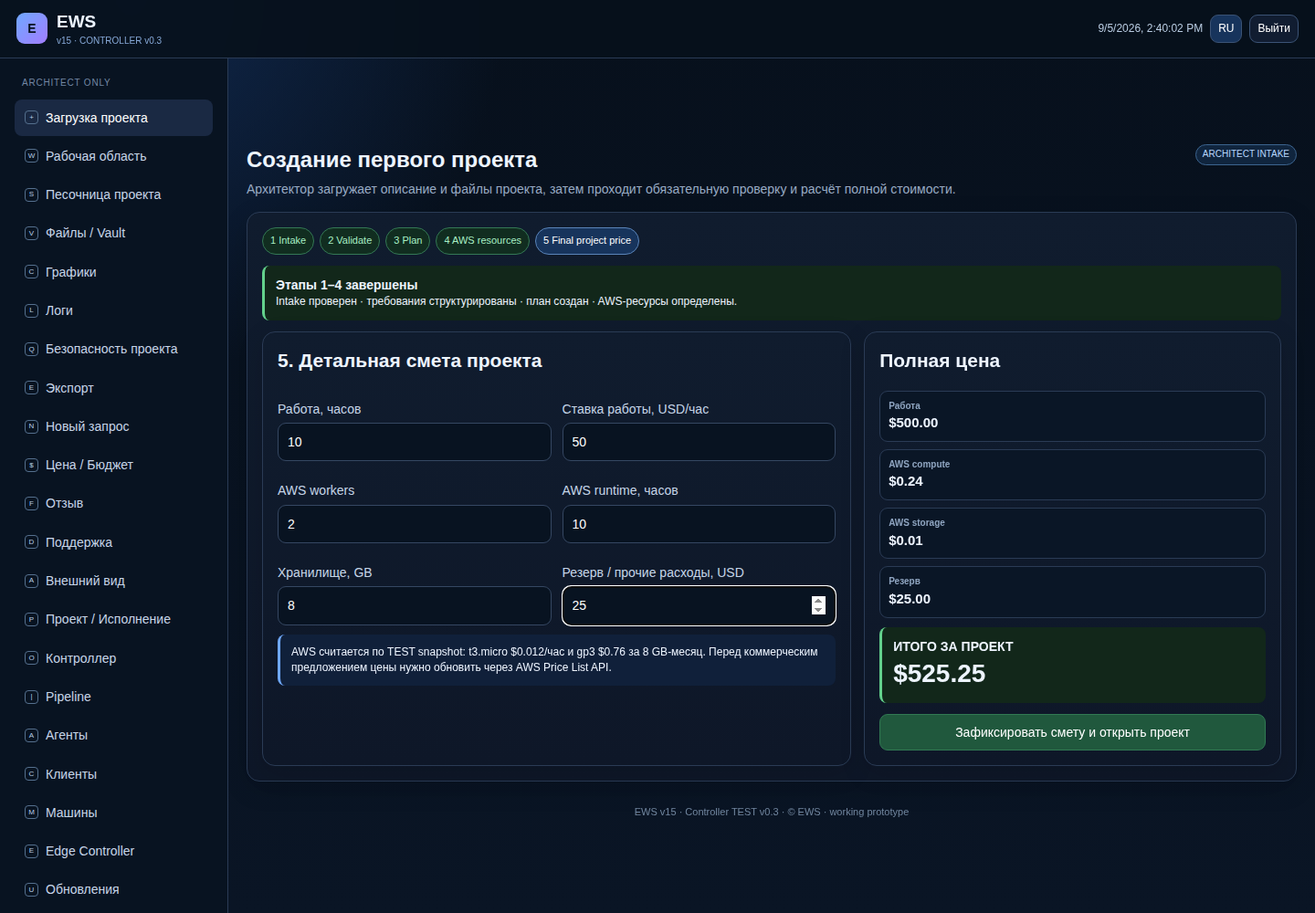
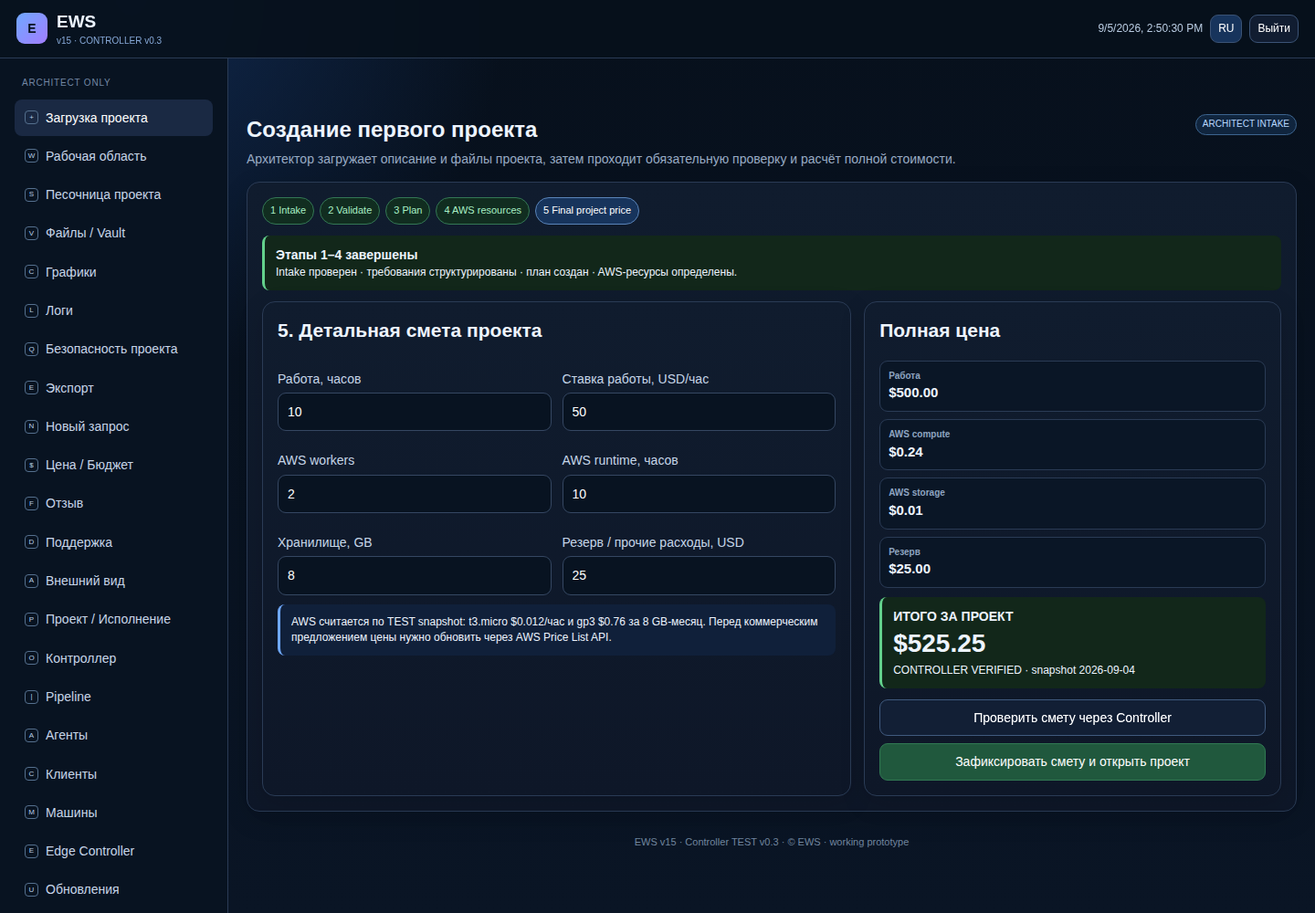
Connect architect pricing to controller

diff --git a/EWS_PROJECT_SOURCE_CURRENT.html b/EWS_PROJECT_SOURCE_CURRENT.html
@@ -75,7 +75,7 @@ table{width:100%;border-collapse:collapse}th,td{padding:9px 8px;border-bottom:1p
      <div class="safe"><b>Этапы 1–4 завершены</b><div class="tiny">Intake проверен · требования структурированы · план создан · AWS-ресурсы определены.</div></div>
      <div class="grid" style="margin-top:12px">
       <div class="card c7"><h2 style="margin-top:0">5. Детальная смета проекта</h2><div class="two"><label>Работа, часов<input id="priceHours" class="field" type="number" min="0" step="0.25" value="40" oninput="calculateProjectPrice()"></label><label>Ставка работы, USD/час<input id="priceRate" class="field" type="number" min="0" step="1" value="45" oninput="calculateProjectPrice()"></label><label>AWS workers<input id="priceWorkers" class="field" type="number" min="1" max="100" step="1" value="4" oninput="calculateProjectPrice()"></label><label>AWS runtime, часов<input id="priceAwsHours" class="field" type="number" min="0" step="0.25" value="12" oninput="calculateProjectPrice()"></label><label>Хранилище, GB<input id="priceStorage" class="field" type="number" min="0" step="1" value="20" oninput="calculateProjectPrice()"></label><label>Резерв / прочие расходы, USD<input id="priceReserve" class="field" type="number" min="0" step="1" value="100" oninput="calculateProjectPrice()"></label></div><div class="notice tiny" style="margin-top:10px">AWS считается по TEST snapshot: t3.micro $0.012/час и gp3 $0.76 за 8 GB-месяц. Перед коммерческим предложением цены нужно обновить через AWS Price List API.</div></div>
-      <div class="card c5"><h2 style="margin-top:0">Полная цена</h2><div class="kv"><b>Работа</b><span id="priceLabor">$0.00</span></div><div class="kv" style="margin-top:8px"><b>AWS compute</b><span id="priceCompute">$0.00</span></div><div class="kv" style="margin-top:8px"><b>AWS storage</b><span id="priceStorageTotal">$0.00</span></div><div class="kv" style="margin-top:8px"><b>Резерв</b><span id="priceReserveTotal">$0.00</span></div><div class="safe" style="margin-top:10px"><b>ИТОГО ЗА ПРОЕКТ</b><div id="priceGrandTotal" class="metric">$0.00</div></div><button class="btn good" style="width:100%;margin-top:12px" onclick="confirmFirstProject()">Зафиксировать смету и открыть проект</button></div>
+      <div class="card c5"><h2 style="margin-top:0">Полная цена</h2><div class="kv"><b>Работа</b><span id="priceLabor">$0.00</span></div><div class="kv" style="margin-top:8px"><b>AWS compute</b><span id="priceCompute">$0.00</span></div><div class="kv" style="margin-top:8px"><b>AWS storage</b><span id="priceStorageTotal">$0.00</span></div><div class="kv" style="margin-top:8px"><b>Резерв</b><span id="priceReserveTotal">$0.00</span></div><div class="safe" style="margin-top:10px"><b>ИТОГО ЗА ПРОЕКТ</b><div id="priceGrandTotal" class="metric">$0.00</div><div id="priceSource" class="tiny">LOCAL TEST SNAPSHOT</div></div><button class="btn alt" style="width:100%;margin-top:12px" onclick="calculateProjectPriceFromController()">Проверить смету через Controller</button><button class="btn good" style="width:100%;margin-top:8px" onclick="confirmFirstProject()">Зафиксировать смету и открыть проект</button></div>
      </div>
     </div>
    </div>
@@ -284,7 +284,10 @@ function toggleVoice(){recording=!recording;document.getElementById('voiceBtn').
 function stageFiles(files){document.getElementById('stagedFiles').textContent=files.length?[...files].map(f=>f.name).join(' · '):'No files staged.'}
 function showAgreement(){modal('Agreement / NDA','<div class="code">DEMO CONFIDENTIAL PROJECT AGREEMENT\n\nConfidentiality · permitted processing · sandbox execution · storage/retention · client responsibility · project privacy · recovery · acceptable-use restrictions.\n\nProduction legal text replaces this placeholder.</div>')}
 function money(n){return '$'+(Number.isFinite(n)?n:0).toFixed(2)}
-function calculateProjectPrice(){const value=id=>Math.max(0,Number(document.getElementById(id)?.value||0));const hours=value('priceHours'),rate=value('priceRate'),workers=value('priceWorkers'),awsHours=value('priceAwsHours'),storage=value('priceStorage'),reserve=value('priceReserve');const labor=hours*rate,compute=workers*awsHours*.012,storageCost=storage*.76/8*(awsHours/730),total=labor+compute+storageCost+reserve;document.getElementById('priceLabor').textContent=money(labor);document.getElementById('priceCompute').textContent=money(compute);document.getElementById('priceStorageTotal').textContent=money(storageCost);document.getElementById('priceReserveTotal').textContent=money(reserve);document.getElementById('priceGrandTotal').textContent=money(total);return total}
+function priceInputs(){const value=id=>Math.max(0,Number(document.getElementById(id)?.value||0));return {labor_hours:value('priceHours'),labor_rate_usd:value('priceRate'),aws_workers:value('priceWorkers'),aws_runtime_hours:value('priceAwsHours'),storage_gb:value('priceStorage'),reserve_usd:value('priceReserve')}}
+function showPrice(b,total,source){document.getElementById('priceLabor').textContent=money(b.labor_usd);document.getElementById('priceCompute').textContent=money(b.aws_compute_usd);document.getElementById('priceStorageTotal').textContent=money(b.aws_storage_usd);document.getElementById('priceReserveTotal').textContent=money(b.reserve_usd);document.getElementById('priceGrandTotal').textContent=money(total);document.getElementById('priceSource').textContent=source}
+function calculateProjectPrice(){const p=priceInputs(),labor=p.labor_hours*p.labor_rate_usd,compute=p.aws_workers*p.aws_runtime_hours*.012,storage=p.storage_gb*.76/8*(p.aws_runtime_hours/730),total=labor+compute+storage+p.reserve_usd;showPrice({labor_usd:labor,aws_compute_usd:compute,aws_storage_usd:storage,reserve_usd:p.reserve_usd},total,'LOCAL TEST SNAPSHOT · NOT VERIFIED');return total}
+async function calculateProjectPriceFromController(){const cfg=controllerCfg();if(!cfg.url){calculateProjectPrice();simpleModal('Controller pricing','Controller API не настроен. Показан локальный TEST-расчёт; это не финальный счёт AWS.');return}try{const d=await controllerRequest('/pricing/estimate','POST',priceInputs());const e=d.estimate||{},b=e.breakdown||{};showPrice(b,Number(e.total_usd||0),'CONTROLLER VERIFIED · snapshot '+(e.pricing_snapshot_date||'unknown'));controllerLog('pricing estimate verified · $'+Number(e.total_usd||0).toFixed(2))}catch(e){document.getElementById('priceSource').textContent='CONTROLLER ERROR';simpleModal('Controller pricing','Расчёт не подтверждён: '+e.message)}}
 function validateIntake(){if(!['att1','att2','att3','nda'].every(id=>document.getElementById(id).checked)){simpleModal('Required confirmation','Please accept all intake confirmations and Agreement / NDA before continuing.');return}document.getElementById('intakeStep1').classList.add('hidden');document.getElementById('intakeStep2').classList.remove('hidden');['w1','w2','w3','w4'].forEach(id=>document.getElementById(id).className='wiz done');document.getElementById('w5').className='wiz active';calculateProjectPrice()}
 function confirmFirstProject(){setHasProject(true);document.getElementById('w5').className='wiz done';const total=calculateProjectPrice();modal('Смета проекта зафиксирована','<p>Все пять этапов завершены. Полная расчётная цена: <b>'+money(total)+'</b>.</p><div class="code">status: PRICE_APPROVED\nAWS: included\nnext route: ARCHITECT_WORKSPACE</div><button class="btn good" onclick="closeModal();showSection(\'architectWorkspace\')">Открыть рабочую область</button>')}
 function renderStages(){const c=document.getElementById('workspaceStages'),a=document.getElementById('architectStages');if(!c||!a)return;c.innerHTML='';a.innerHTML='';const names=lang==='ru'?stageRU:stageEN;names.forEach((n,i)=>{const status=i<17?'good':i===17?'blue':'';const label=i<17?'DONE':i===17?'ACTIVE':'WAIT';const make=()=>{const d=document.createElement('div');d.className='stage';d.onclick=()=>stageModal(i,n);d.innerHTML='<div class="stage-num">'+(i+1)+'</div><div><b>'+n+'</b><div class="tiny muted">'+(i<17?'completed':i===17?'working':'queued')+'</div></div><span class="badge '+status+'">'+label+'</span>';return d};if(i<8)c.appendChild(make());a.appendChild(make())})}

diff --git a/index.html b/index.html
@@ -75,7 +75,7 @@ table{width:100%;border-collapse:collapse}th,td{padding:9px 8px;border-bottom:1p
      <div class="safe"><b>Этапы 1–4 завершены</b><div class="tiny">Intake проверен · требования структурированы · план создан · AWS-ресурсы определены.</div></div>
      <div class="grid" style="margin-top:12px">
       <div class="card c7"><h2 style="margin-top:0">5. Детальная смета проекта</h2><div class="two"><label>Работа, часов<input id="priceHours" class="field" type="number" min="0" step="0.25" value="40" oninput="calculateProjectPrice()"></label><label>Ставка работы, USD/час<input id="priceRate" class="field" type="number" min="0" step="1" value="45" oninput="calculateProjectPrice()"></label><label>AWS workers<input id="priceWorkers" class="field" type="number" min="1" max="100" step="1" value="4" oninput="calculateProjectPrice()"></label><label>AWS runtime, часов<input id="priceAwsHours" class="field" type="number" min="0" step="0.25" value="12" oninput="calculateProjectPrice()"></label><label>Хранилище, GB<input id="priceStorage" class="field" type="number" min="0" step="1" value="20" oninput="calculateProjectPrice()"></label><label>Резерв / прочие расходы, USD<input id="priceReserve" class="field" type="number" min="0" step="1" value="100" oninput="calculateProjectPrice()"></label></div><div class="notice tiny" style="margin-top:10px">AWS считается по TEST snapshot: t3.micro $0.012/час и gp3 $0.76 за 8 GB-месяц. Перед коммерческим предложением цены нужно обновить через AWS Price List API.</div></div>
-      <div class="card c5"><h2 style="margin-top:0">Полная цена</h2><div class="kv"><b>Работа</b><span id="priceLabor">$0.00</span></div><div class="kv" style="margin-top:8px"><b>AWS compute</b><span id="priceCompute">$0.00</span></div><div class="kv" style="margin-top:8px"><b>AWS storage</b><span id="priceStorageTotal">$0.00</span></div><div class="kv" style="margin-top:8px"><b>Резерв</b><span id="priceReserveTotal">$0.00</span></div><div class="safe" style="margin-top:10px"><b>ИТОГО ЗА ПРОЕКТ</b><div id="priceGrandTotal" class="metric">$0.00</div></div><button class="btn good" style="width:100%;margin-top:12px" onclick="confirmFirstProject()">Зафиксировать смету и открыть проект</button></div>
+      <div class="card c5"><h2 style="margin-top:0">Полная цена</h2><div class="kv"><b>Работа</b><span id="priceLabor">$0.00</span></div><div class="kv" style="margin-top:8px"><b>AWS compute</b><span id="priceCompute">$0.00</span></div><div class="kv" style="margin-top:8px"><b>AWS storage</b><span id="priceStorageTotal">$0.00</span></div><div class="kv" style="margin-top:8px"><b>Резерв</b><span id="priceReserveTotal">$0.00</span></div><div class="safe" style="margin-top:10px"><b>ИТОГО ЗА ПРОЕКТ</b><div id="priceGrandTotal" class="metric">$0.00</div><div id="priceSource" class="tiny">LOCAL TEST SNAPSHOT</div></div><button class="btn alt" style="width:100%;margin-top:12px" onclick="calculateProjectPriceFromController()">Проверить смету через Controller</button><button class="btn good" style="width:100%;margin-top:8px" onclick="confirmFirstProject()">Зафиксировать смету и открыть проект</button></div>
      </div>
     </div>
    </div>
@@ -284,7 +284,10 @@ function toggleVoice(){recording=!recording;document.getElementById('voiceBtn').
 function stageFiles(files){document.getElementById('stagedFiles').textContent=files.length?[...files].map(f=>f.name).join(' · '):'No files staged.'}
 function showAgreement(){modal('Agreement / NDA','<div class="code">DEMO CONFIDENTIAL PROJECT AGREEMENT\n\nConfidentiality · permitted processing · sandbox execution · storage/retention · client responsibility · project privacy · recovery · acceptable-use restrictions.\n\nProduction legal text replaces this placeholder.</div>')}
 function money(n){return '$'+(Number.isFinite(n)?n:0).toFixed(2)}
-function calculateProjectPrice(){const value=id=>Math.max(0,Number(document.getElementById(id)?.value||0));const hours=value('priceHours'),rate=value('priceRate'),workers=value('priceWorkers'),awsHours=value('priceAwsHours'),storage=value('priceStorage'),reserve=value('priceReserve');const labor=hours*rate,compute=workers*awsHours*.012,storageCost=storage*.76/8*(awsHours/730),total=labor+compute+storageCost+reserve;document.getElementById('priceLabor').textContent=money(labor);document.getElementById('priceCompute').textContent=money(compute);document.getElementById('priceStorageTotal').textContent=money(storageCost);document.getElementById('priceReserveTotal').textContent=money(reserve);document.getElementById('priceGrandTotal').textContent=money(total);return total}
+function priceInputs(){const value=id=>Math.max(0,Number(document.getElementById(id)?.value||0));return {labor_hours:value('priceHours'),labor_rate_usd:value('priceRate'),aws_workers:value('priceWorkers'),aws_runtime_hours:value('priceAwsHours'),storage_gb:value('priceStorage'),reserve_usd:value('priceReserve')}}
+function showPrice(b,total,source){document.getElementById('priceLabor').textContent=money(b.labor_usd);document.getElementById('priceCompute').textContent=money(b.aws_compute_usd);document.getElementById('priceStorageTotal').textContent=money(b.aws_storage_usd);document.getElementById('priceReserveTotal').textContent=money(b.reserve_usd);document.getElementById('priceGrandTotal').textContent=money(total);document.getElementById('priceSource').textContent=source}
+function calculateProjectPrice(){const p=priceInputs(),labor=p.labor_hours*p.labor_rate_usd,compute=p.aws_workers*p.aws_runtime_hours*.012,storage=p.storage_gb*.76/8*(p.aws_runtime_hours/730),total=labor+compute+storage+p.reserve_usd;showPrice({labor_usd:labor,aws_compute_usd:compute,aws_storage_usd:storage,reserve_usd:p.reserve_usd},total,'LOCAL TEST SNAPSHOT · NOT VERIFIED');return total}
+async function calculateProjectPriceFromController(){const cfg=controllerCfg();if(!cfg.url){calculateProjectPrice();simpleModal('Controller pricing','Controller API не настроен. Показан локальный TEST-расчёт; это не финальный счёт AWS.');return}try{const d=await controllerRequest('/pricing/estimate','POST',priceInputs());const e=d.estimate||{},b=e.breakdown||{};showPrice(b,Number(e.total_usd||0),'CONTROLLER VERIFIED · snapshot '+(e.pricing_snapshot_date||'unknown'));controllerLog('pricing estimate verified · $'+Number(e.total_usd||0).toFixed(2))}catch(e){document.getElementById('priceSource').textContent='CONTROLLER ERROR';simpleModal('Controller pricing','Расчёт не подтверждён: '+e.message)}}
 function validateIntake(){if(!['att1','att2','att3','nda'].every(id=>document.getElementById(id).checked)){simpleModal('Required confirmation','Please accept all intake confirmations and Agreement / NDA before continuing.');return}document.getElementById('intakeStep1').classList.add('hidden');document.getElementById('intakeStep2').classList.remove('hidden');['w1','w2','w3','w4'].forEach(id=>document.getElementById(id).className='wiz done');document.getElementById('w5').className='wiz active';calculateProjectPrice()}
 function confirmFirstProject(){setHasProject(true);document.getElementById('w5').className='wiz done';const total=calculateProjectPrice();modal('Смета проекта зафиксирована','<p>Все пять этапов завершены. Полная расчётная цена: <b>'+money(total)+'</b>.</p><div class="code">status: PRICE_APPROVED\nAWS: included\nnext route: ARCHITECT_WORKSPACE</div><button class="btn good" onclick="closeModal();showSection(\'architectWorkspace\')">Открыть рабочую область</button>')}
 function renderStages(){const c=document.getElementById('workspaceStages'),a=document.getElementById('architectStages');if(!c||!a)return;c.innerHTML='';a.innerHTML='';const names=lang==='ru'?stageRU:stageEN;names.forEach((n,i)=>{const status=i<17?'good':i===17?'blue':'';const label=i<17?'DONE':i===17?'ACTIVE':'WAIT';const make=()=>{const d=document.createElement('div');d.className='stage';d.onclick=()=>stageModal(i,n);d.innerHTML='<div class="stage-num">'+(i+1)+'</div><div><b>'+n+'</b><div class="tiny muted">'+(i<17?'completed':i===17?'working':'queued')+'</div></div><span class="badge '+status+'">'+label+'</span>';return d};if(i<8)c.appendChild(make());a.appendChild(make())})}

diff --git a/controller_app.py b/controller_app.py
@@ -180,6 +180,58 @@ def stack_status(stack_name: str) -> Dict[str, Any]:
     return {"stack_status": s.get("StackStatus"), "worker_instance_id": outputs.get("WorkerInstanceId")}
 
 
+def project_price_estimate(body: Dict[str, Any]) -> Dict[str, Any]:
+    limits = {
+        "labor_hours": 100000.0,
+        "labor_rate_usd": 10000.0,
+        "aws_runtime_hours": 8760.0,
+        "storage_gb": 100000.0,
+        "reserve_usd": 10000000.0,
+    }
+    values: Dict[str, float] = {}
+    for field, maximum in limits.items():
+        raw = body.get(field, 0)
+        if isinstance(raw, bool):
+            raise ValueError(f"{field} must be a finite number from 0 to {maximum:g}")
+        try:
+            value = float(raw)
+        except (TypeError, ValueError) as exc:
+            raise ValueError(f"{field} must be a finite number from 0 to {maximum:g}") from exc
+        if not math.isfinite(value) or value < 0 or value > maximum:
+            raise ValueError(f"{field} must be a finite number from 0 to {maximum:g}")
+        values[field] = value
+
+    raw_workers = body.get("aws_workers", 1)
+    if isinstance(raw_workers, bool):
+        raise ValueError("aws_workers must be an integer from 1 to 100")
+    try:
+        workers = int(raw_workers)
+    except (TypeError, ValueError) as exc:
+        raise ValueError("aws_workers must be an integer from 1 to 100") from exc
+    if workers < 1 or workers > 100 or float(raw_workers) != workers:
+        raise ValueError("aws_workers must be an integer from 1 to 100")
+
+    worker = PRICING_CATALOG["worker"]
+    labor = values["labor_hours"] * values["labor_rate_usd"]
+    compute = workers * values["aws_runtime_hours"] * float(worker["hourly_compute_usd"])
+    storage = values["storage_gb"] * (float(worker["gp3_storage_month_usd"]) / float(worker["gp3_storage_gb"])) * (values["aws_runtime_hours"] / 730)
+    total = labor + compute + storage + values["reserve_usd"]
+    return {
+        "currency": PRICING_CATALOG["currency"],
+        "pricing_snapshot_date": PRICING_CATALOG["snapshot_date"],
+        "pricing_mode": PRICING_CATALOG["mode"],
+        "inputs": {**values, "aws_workers": workers},
+        "breakdown": {
+            "labor_usd": round(labor, 6),
+            "aws_compute_usd": round(compute, 6),
+            "aws_storage_usd": round(storage, 6),
+            "reserve_usd": round(values["reserve_usd"], 6),
+        },
+        "total_usd": round(total, 6),
+        "is_final_invoice": False,
+    }
+
+
 def cleanup_expired_projects(now: datetime | None = None) -> Dict[str, int]:
     """Delete expired TEST stacks; scheduled retries make cleanup eventually consistent."""
     now_epoch = int((now or datetime.now(timezone.utc)).timestamp())
@@ -244,6 +296,13 @@ def lambda_handler(event, context):
     # Production client Apply must use real client authentication (e.g. JWT/Cognito), never this token in public JS.
     if not authorized(event):
         return response(401, {"ok": False, "error": "unauthorized", "message": "TEST session token required"}, event)
+
+    if method == "POST" and path == "/pricing/estimate":
+        try:
+            estimate = project_price_estimate(parse_json_body(event))
+        except ValueError as exc:
+            return response(400, {"ok": False, "error": "invalid_estimate_input", "message": str(exc)}, event)
+        return response(200, {"ok": True, "estimate": estimate}, event)
 
     if method == "GET" and path == "/controller/status":
         state = get_state()

diff --git a/controller_tests.py b/controller_tests.py
@@ -82,6 +82,8 @@ class TestPackage(unittest.TestCase):
         self.assertIn("applyProjectFromArchitect()", html)
         self.assertIn('id="w5"', html)
         self.assertIn("calculateProjectPrice()", html)
+        self.assertIn("calculateProjectPriceFromController()", html)
+        self.assertIn("/pricing/estimate", html)
         self.assertIn('id="priceGrandTotal"', html)
         self.assertIn("TEST ONLY", html)
 
@@ -116,6 +118,37 @@ class TestControllerBudgetValidation(unittest.TestCase):
             "body": json.dumps({"task": "xplace sample", "budget_limit_usd": budget}),
         }
         return self.app.lambda_handler(event, None)
+
+    def test_controller_calculates_full_project_price(self):
+        event = {
+            "requestContext": {"http": {"method": "POST", "path": "/pricing/estimate"}},
+            "headers": {},
+            "body": json.dumps({
+                "labor_hours": 10,
+                "labor_rate_usd": 50,
+                "aws_workers": 2,
+                "aws_runtime_hours": 10,
+                "storage_gb": 8,
+                "reserve_usd": 25,
+            }),
+        }
+        result = self.app.lambda_handler(event, None)
+        estimate = json.loads(result["body"])["estimate"]
+        self.assertEqual(result["statusCode"], 200)
+        self.assertAlmostEqual(estimate["breakdown"]["labor_usd"], 500)
+        self.assertAlmostEqual(estimate["breakdown"]["aws_compute_usd"], 0.24)
+        self.assertAlmostEqual(estimate["total_usd"], 525.250411, places=6)
+        self.assertFalse(estimate["is_final_invoice"])
+
+    def test_controller_rejects_invalid_price_inputs(self):
+        for field, value in (("labor_hours", -1), ("labor_rate_usd", "NaN"), ("aws_workers", 1.5), ("aws_workers", True)):
+            with self.subTest(field=field, value=value):
+                body = {"labor_hours": 1, "labor_rate_usd": 1, "aws_workers": 1, "aws_runtime_hours": 1, "storage_gb": 1, "reserve_usd": 0}
+                body[field] = value
+                event = {"requestContext": {"http": {"method": "POST", "path": "/pricing/estimate"}}, "headers": {}, "body": json.dumps(body)}
+                result = self.app.lambda_handler(event, None)
+                self.assertEqual(result["statusCode"], 400)
+                self.assertEqual(json.loads(result["body"])["error"], "invalid_estimate_input")
 
     def test_rejects_non_numeric_budget_without_server_error(self):
         result = self.call_apply("not-a-number")

diff --git a/PRODUCTION_READINESS.md b/PRODUCTION_READINESS.md
@@ -100,3 +100,13 @@ credentials are available.
 6. Repeat failure injection for duplicate Apply, malformed budget, worker crash, timeout,
    CloudFormation failure, controller restart, and expired/revoked sessions.
 7. Only after these pass, run a small, explicitly authorized XPlace pilot—not a whole-site crawl.
+
+## Current AWS start verdict
+
+Registering a dedicated AWS account is appropriate **only for a controlled TEST deployment now**.
+Do not connect client traffic, accept real customer files, or promise production work yet. Use a
+separate sandbox account with MFA/IAM Identity Center, a strict monthly budget and billing alarms,
+then deploy the Controller and exercise health, authenticated pricing estimate, plan, apply, status,
+TTL cleanup, and manual terminate with synthetic data. A public production launch remains NO-GO
+until the product execution, identity/tenancy, artifact handling, isolation, metering, monitoring,
+and incident-response blockers above are implemented and independently tested.

diff --git a/README_TEST.md b/README_TEST.md
@@ -66,3 +66,10 @@ Current TEST snapshot (04.09.2026, USD, eu-central-1):
 - CloudFormation orchestration: **$0 extra fee for standard AWS resources**; resources it creates are still billed.
 
 These values are **estimates, not a billing authority**. Taxes, data transfer, public IPv4 if later enabled, snapshots, and future services are excluded. Before production client billing, replace the static snapshot with the AWS Price List API (or another verified live AWS pricing feed), then apply EWS pricing/margin rules and client-approved budgets.
+
+## Controller-backed project estimate
+
+The Architect pricing stage can call authenticated `POST /pricing/estimate`. The Controller validates
+bounded labor, worker, runtime, storage, and reserve inputs and returns the labor/AWS breakdown using
+the packaged pricing snapshot. The response explicitly sets `is_final_invoice` to `false`: it is a
+reproducible TEST estimate, not the AWS bill or a customer invoice.
